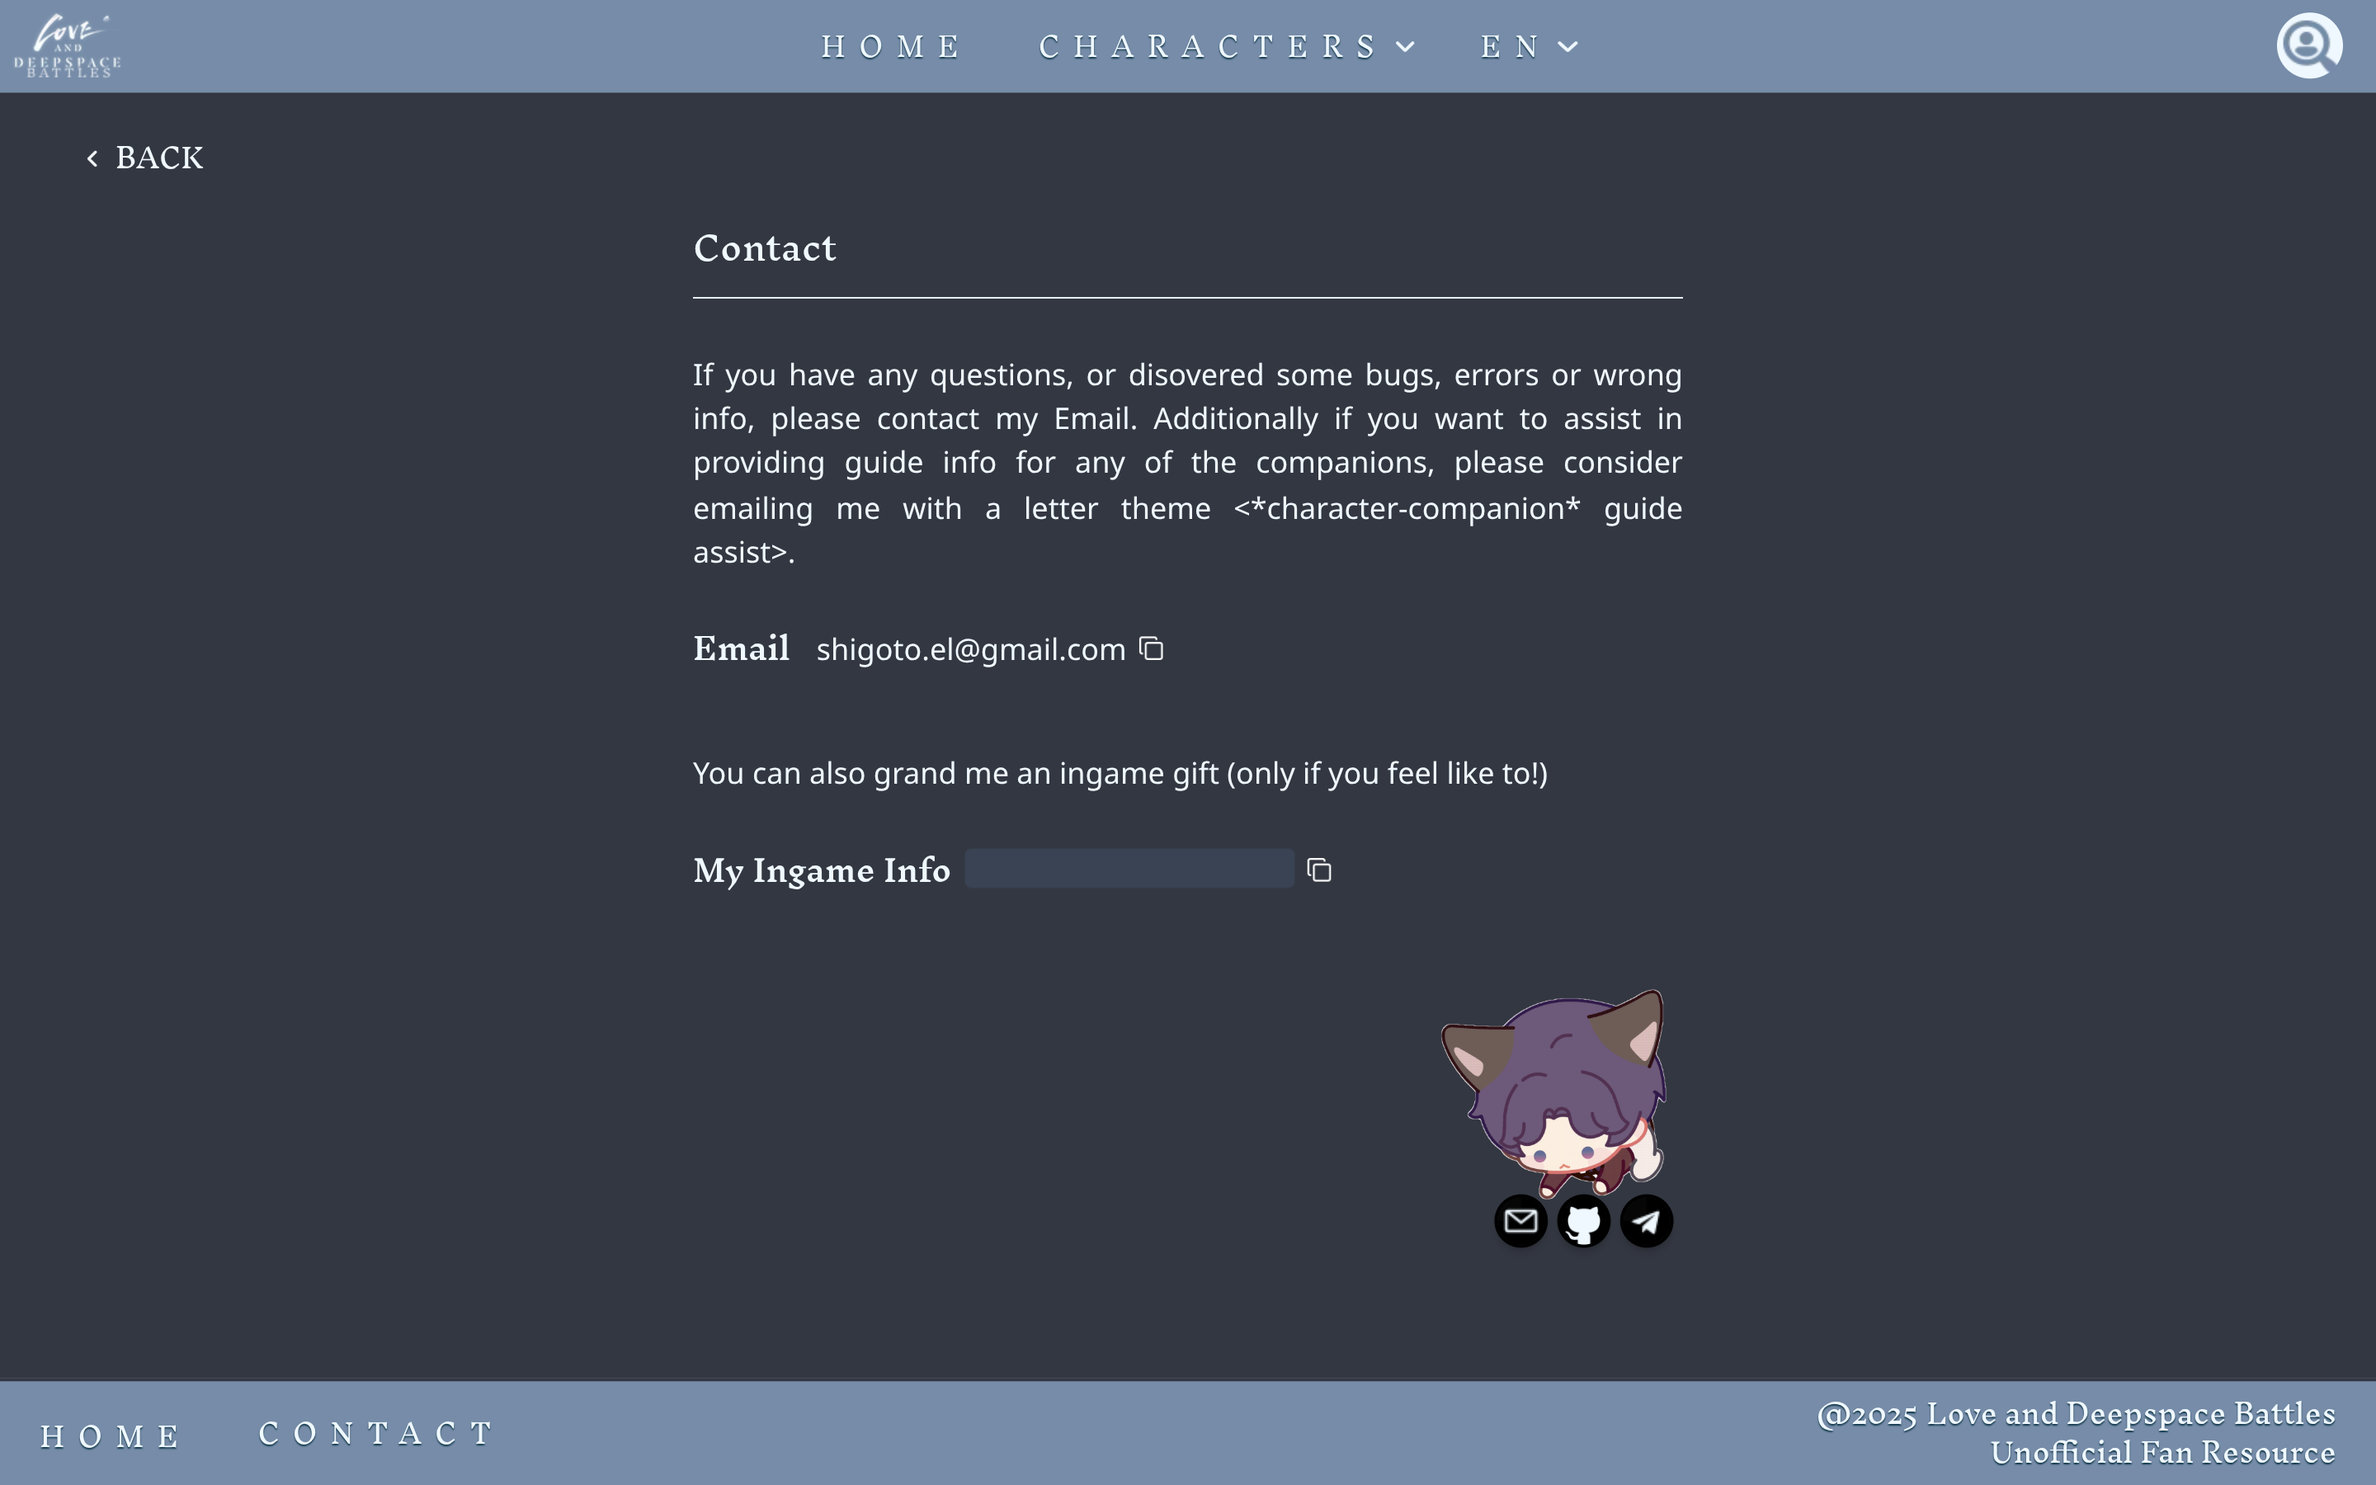
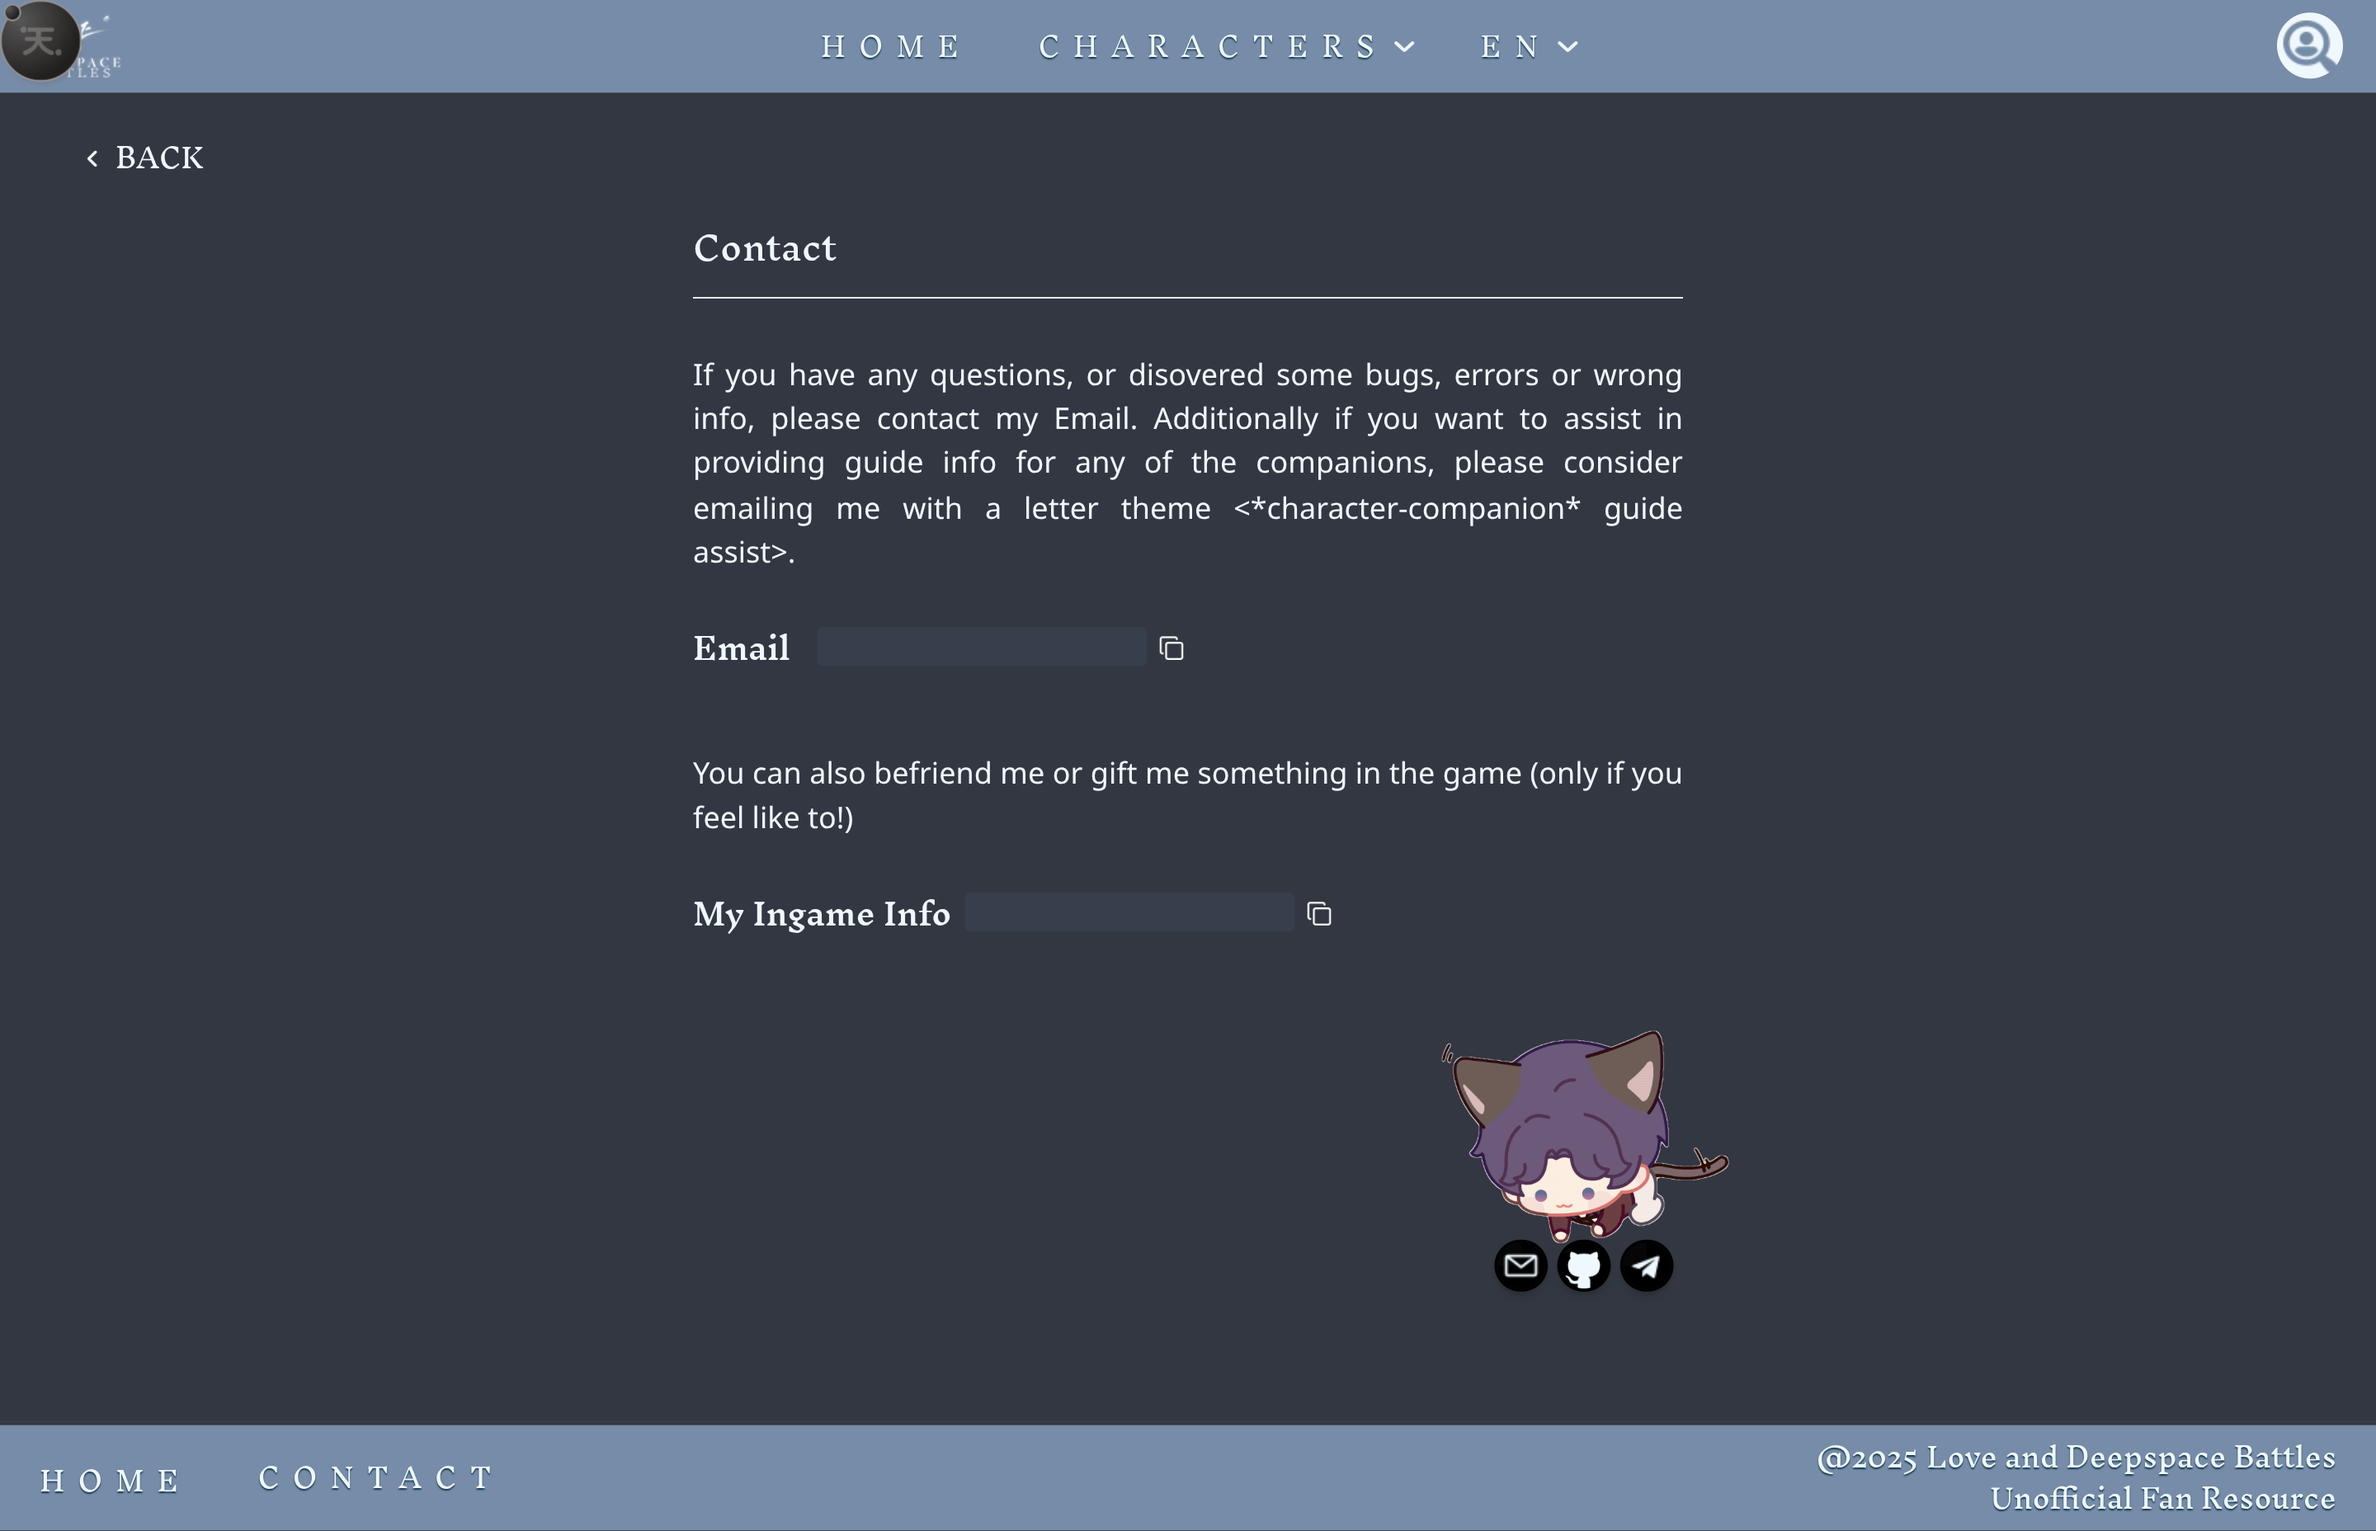
fixed contact page, made it more private and implemented new functions and visials + .env.local

diff --git a/src/app/[locale]/contact/page.tsx b/src/app/[locale]/contact/page.tsx
@@ -1,0 +1,112 @@
+import CopyWrapper from "@/app/components/CopyWrapper";
+import Spoiler from "@/app/components/Spoiler";
+import { styles } from "@/app/utils/styles";
+import { useTranslations } from "next-intl";
+import Image from "next/image";
+
+export default function Contact () {
+
+    const tLayout = useTranslations('layout');
+    const tCommon = useTranslations('home');
+    const uid = process.env.NEXT_PUBLIC_GAME_UID || "";;
+    const email = process.env.NEXT_PUBLIC_EMAIL || "";
+
+    const maskedEmail = (email: string) => {
+        const [local, domain] = email.split('@');
+        return local.charAt(0) + '*'.repeat(local.length - 1) + '@' + domain;
+    }
+
+    const maskedUID = (uid: string) => {
+        const parts = uid.split(' '); // splits into parts by a whitespase
+        const maskedNums = '*'.repeat(parts[2].length);
+        const maskedName = "*".repeat(parts[2].length);
+
+        return `${parts[0]} ${maskedNums} ${maskedName}`;
+    }
+
+    const maskEmail = maskedEmail(email);
+    const maskUID = maskedUID(uid);
+
+    return(
+        <div>
+            <div className={styles.pagelayout}>
+                <div className={styles.contentlayout}>
+                    <h1 className={styles.h1}>{tLayout('contact')}</h1>
+                    <hr className={styles.divider}></hr>
+                    <p>{tCommon('contacts_intro')}</p>
+        
+                    <div className="flex flex-col sm:flex-row items-center sm:gap-4 w-full">
+                        <div className="font-accent font-semibold">{tLayout('email')}</div>
+                        <CopyWrapper text={email}>
+                            <Spoiler text={maskEmail} />
+                        </CopyWrapper>
+                    </div>
+        
+        
+                    <p className="mt-4 w-full">{tCommon('contacts_thanks')}</p>
+        
+                    <div className="flex flex-col sm:flex-row items-center sm:gap-2  w-full">
+                        <div className="font-accent font-semibold">{tLayout('ingame_info')}</div>
+
+                        <CopyWrapper text={uid}>
+                            <Spoiler text={maskUID} />
+                        </CopyWrapper>
+
+                    </div>
+        
+        
+                    <div className="grid grid-cols-5 place-items-center justify-center">
+
+                        <div className="col-start-3 sm:col-start-5 w-45">
+                            <Image
+                                alt="kitty raf"
+                                src={`/images/others/rafayel.webp`}
+                                width={200}
+                                height={200}
+                                className="object-covers z-50"
+                                priority
+                            /> 
+
+                            <div className="flex gap-2 w-fit mx-auto -mt-7">
+                                <a href="mailto:shigoto.el@gmail.com" aria-label="Email" target="_blank" rel="noopener noreferrer">
+                                    <Image
+                                        alt="email icon"
+                                        src={`/images/icons/email.png`}
+                                        width={30}
+                                        height={30}
+                                        className={styles.contactIcons}
+                                        title="Email"
+                                        priority
+                                    />
+                                </a>
+                                <a href="https://github.com/rue-eru" aria-label="Github" target="_blank" rel="noopener noreferrer">
+                                    <Image
+                                        alt="github icon"
+                                        src={`/images/icons/github-logo.png`}
+                                        width={30}
+                                        height={30}
+                                        className={styles.contactIcons}
+                                        title="Github"
+                                        priority
+                                    />
+                                </a>
+                                <a href="https://t.me/literallyfault" aria-label="Telegram" target="_blank" rel="noopener noreferrer">
+                                    <Image
+                                        alt="telegram icon"
+                                        src={`/images/icons/telegram.png`}
+                                        width={30}
+                                        height={30}
+                                        className={styles.contactIcons}
+                                        title="Telegram"
+                                        priority
+                                    />
+                                </a>
+                            </div>
+                        </div>
+                    </div>
+                </div>
+            </div>
+        </div>
+
+    )
+}
